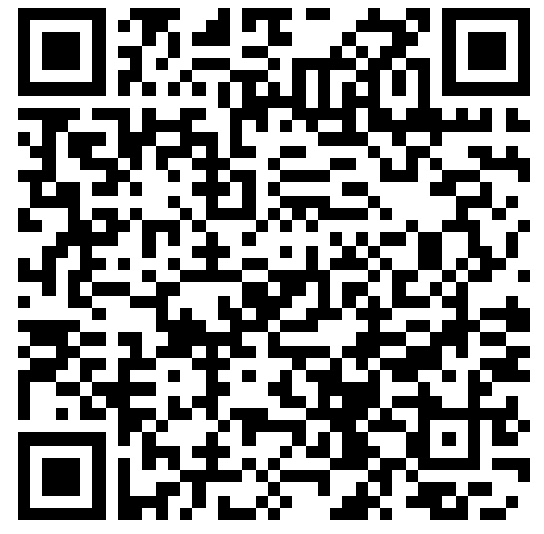
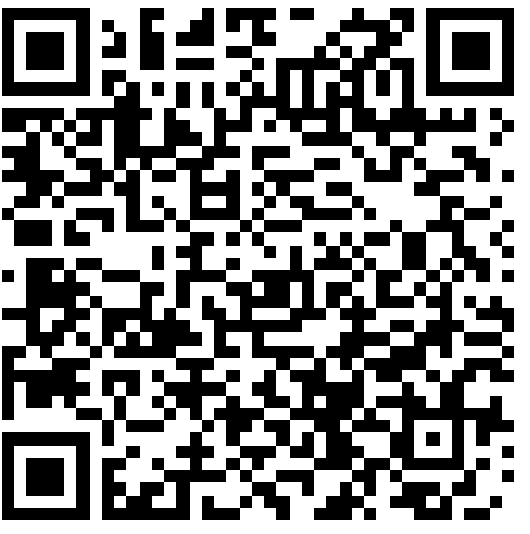
Add updated survey

diff --git a/index.html b/index.html
@@ -34,7 +34,7 @@
       <div id="iframe-form" class="input-form user-creation border-top">
         <iframe 
           allow="geolocation *"
-          src="https://pristine.symptodev.site/qrCode/cd120e80-b88e-4a40-bd81-3b492d8ad910/6a082760-b9cc-4eff-a6ca-d88382323f39?iframe=true"
+          src="https://pristine.symptodev.site/qrCode/f519f5a4-eb9f-4b16-a857-e217c7588d55/6a082760-b9cc-4eff-a6ca-d88382323f39?iframe=true"
           class="border-0 w-100"
           style="min-height:650px;"
         >
